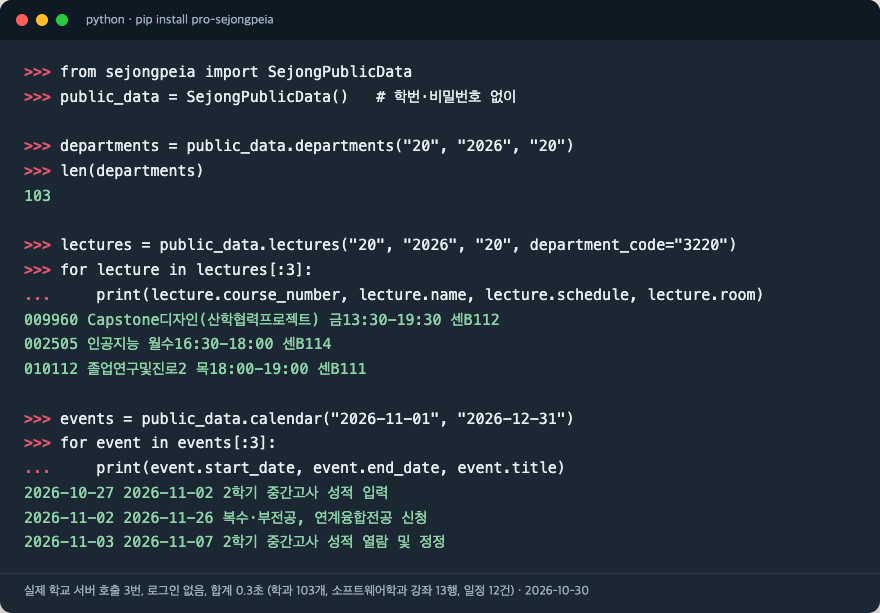
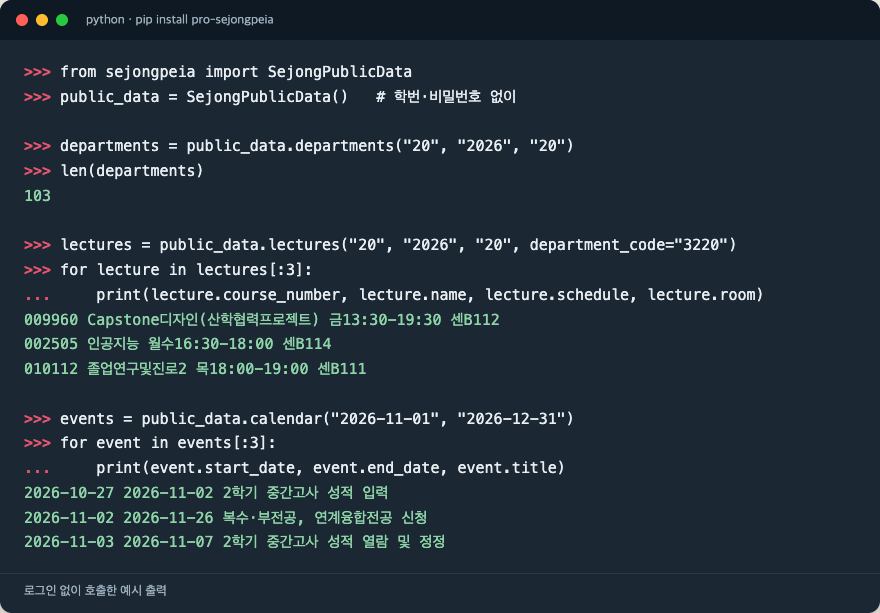
README 첫 화면에 기능·강점을 드러내고 배너를 새로 만들기 : docs : 예시 출력 이미지와 캡션에서 날짜·개수·소요 시간 제거 https://github.com/Cassiiopeia/pro-sejongpeia/issues/126

Changed region(s): [[0.0307, 0.9299, 0.675, 0.9918]]

diff --git a/scripts/generate-readme-demo.py b/scripts/generate-readme-demo.py
@@ -9,7 +9,6 @@
 import html
 import sys
 import time
-from datetime import date
 from pathlib import Path
 
 sys.path.insert(0, str(Path(__file__).resolve().parent.parent / "python" / "src"))
@@ -65,8 +64,8 @@ def render_html(lines, elapsed_seconds, lecture_count, event_count):
             body.append(f'<div class="out">{escaped}</div>')
         else:
             body.append("<div>&nbsp;</div>")
-    footer = (f"실제 학교 서버 호출 3번, 로그인 없음, 합계 {elapsed_seconds:.1f}초 "
-              f"(학과 {lines[5][1]}개, 소프트웨어학과 강좌 {lecture_count}행, 일정 {event_count}건) · {date.today().isoformat()}")
+    # 날짜·개수는 시간이 지나면 어긋나므로 적지 않음
+    footer = "로그인 없이 호출한 예시 출력"
     return f"""<!doctype html><html lang="ko"><head><meta charset="utf-8"><style>
 body {{ margin:0; padding:28px; background:#EFE9E1; font-family:'Apple SD Gothic Neo','Noto Sans KR',sans-serif; }}
 .window {{ width:880px; border-radius:12px; overflow:hidden; background:#1B2733; box-shadow:0 10px 30px rgba(0,0,0,.25); }}

diff --git a/README.md b/README.md
@@ -142,7 +142,7 @@ List<Lecture> lectures = publicData.lectures("20", "2026", "20", "3220", "", "")
 System.out.println(departments.size() + " " + lectures.get(0).getName());
 ```
 
-예시 출력입니다 (Python, 학교 서버 3번 호출에 0.3초).
+예시 출력입니다 (Python).
 
 <p align="center">
   <img src="docs/assets/demo/public-data-run.png" alt="SejongPublicData 예시 출력: 학과 목록, 소프트웨어학과 개설강좌, 학사일정" width="760">

diff --git a/README.en.md b/README.en.md
@@ -142,7 +142,7 @@ List<Lecture> lectures = publicData.lectures("20", "2026", "20", "3220", "", "")
 System.out.println(departments.size() + " " + lectures.get(0).getName());
 ```
 
-Example output (Python, three calls to the school server in 0.3 s).
+Example output (Python).
 
 <p align="center">
   <img src="docs/assets/demo/public-data-run.png" alt="SejongPublicData example output: department list, Software department lectures and academic calendar" width="760">
